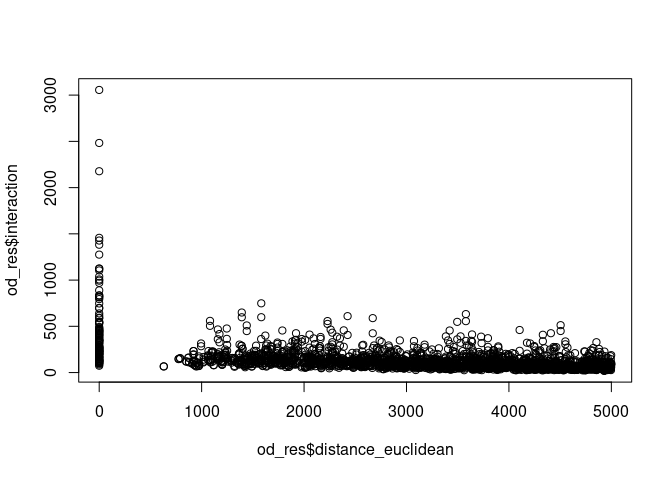
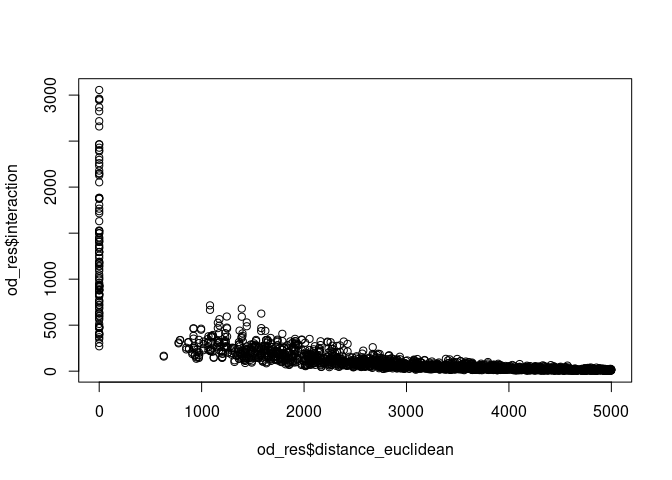
Document destinations in README, close #3
Former-commit-id: d853988005308820c1426e050c59af522e3b090b

diff --git a/README.md b/README.md
@@ -48,7 +48,7 @@ od_res = si_calculate(
   m = origin_all,
   n = destination_all,
   constraint_production = origin_all,
-  beta = 0.3
+  beta = 0.9
   )
 # visualize the results
 plot(od_res$distance_euclidean, od_res$interaction)
@@ -147,9 +147,62 @@ As shown in the output above, the function allows you to use any
 variable in the origin or destination data in the function, with column
 names appended with `origin` and `destination`.
 
-Note: support for OD datasets in which the origins and destinations are
-different objects is work in progress (see
-[\#3](https://github.com/Robinlovelace/si/issues/3)).
+The approach works equally well when origin and destination points are
+different, as shown in the following example which estimates the number
+of trips to pubs in Leeds, assuming that for every trip to the pub there
+are 50 trips to work:
+
+``` r
+zones_pubs = si_zones %>% 
+  mutate(to_pubs = all / 50)
+pubs_example = si_pubs %>% 
+  filter(grepl(pattern = "Chemic|Nag", x = name))
+pubs_example$size = c(100, 80)
+od_to_pubs = si_to_od(zones_pubs, pubs_example)
+od_to_pubs_result = od_to_pubs %>% 
+  si_calculate(fun = gravity_model, 
+               m = origin_to_pubs,
+               n = destination_size,
+               d = distance_euclidean,
+               beta = 0.5,
+               constraint_production = origin_to_pubs)
+od_to_pubs_result %>% 
+  select(O, D, destination_name, interaction)
+```
+
+    Simple feature collection with 214 features and 4 fields
+    Geometry type: LINESTRING
+    Dimension:     XY
+    Bounding box:  xmin: -1.743949 ymin: 53.71552 xmax: -1.337493 ymax: 53.92906
+    Geodetic CRS:  WGS 84
+    # A tibble: 214 × 5
+       O         D         destination_name  interaction                    geometry
+       <chr>     <chr>     <chr>                   <dbl>            <LINESTRING [°]>
+     1 E02002330 127960333 The Chemic Tavern        18.4 (-1.400108 53.92906, -1.55…
+     2 E02002331 127960333 The Chemic Tavern        15.9 (-1.346497 53.92305, -1.55…
+     3 E02002332 127960333 The Chemic Tavern        25.5 (-1.704658 53.91073, -1.55…
+     4 E02002333 127960333 The Chemic Tavern        38.7 (-1.6876 53.90066, -1.5528…
+     5 E02002334 127960333 The Chemic Tavern        20.9 (-1.357667 53.88306, -1.55…
+     6 E02002335 127960333 The Chemic Tavern        19.9 (-1.470966 53.89184, -1.55…
+     7 E02002336 127960333 The Chemic Tavern        25.5 (-1.624775 53.88589, -1.55…
+     8 E02002337 127960333 The Chemic Tavern        37.2 (-1.743949 53.88035, -1.55…
+     9 E02002338 127960333 The Chemic Tavern        36.8 (-1.710657 53.87087, -1.55…
+    10 E02002339 127960333 The Chemic Tavern        29.0 (-1.694076 53.86729, -1.55…
+    # … with 204 more rows
+
+We can plot the top 20 desire lines between zone centroids and the 2
+pubs in the example dataset as follows:
+
+``` r
+library(tmap)
+tmap_mode("view")
+od_to_pubs_result %>% 
+  top_n(n = 50, wt = interaction) %>% 
+  tm_shape() +
+  tm_lines(col = "interaction", palette = "viridis", scale = 2)
+```
+
+![](man/figures/README-pubmap-1.png)
 
 ## Feedback
 
